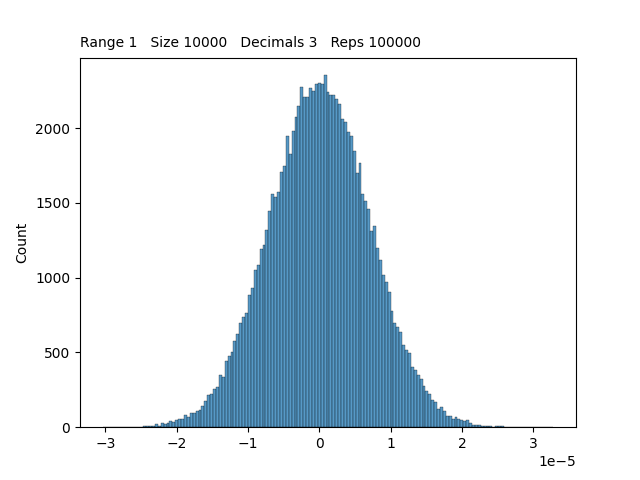
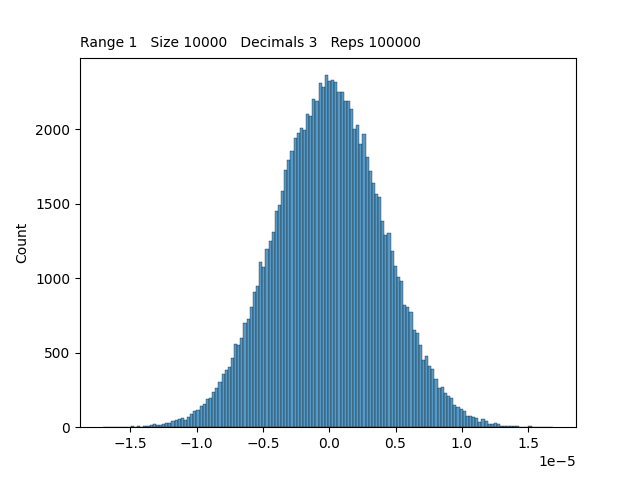
Added functions to work with other distributions. Added a pseudo wrapper to work with the new functions. Now the distribution function is passed as an argument.

diff --git a/CorrRoundingError2.py b/CorrRoundingError2.py
@@ -6,14 +6,38 @@ import pickle
 import pandas
 from time import perf_counter
 import seaborn as sns
+
+"""
+def Rounding(Func):
+    def wrapper(self, *args, **kwargs):
+        Time1 = perf_counter()
+        RealX, RealY = Func(self)
+        Time2 = perf_counter()
+        RoundedX, RoundedY = np.round(RealX, self.Decimals), np.round(RealY, self.Decimals)
+        Time3 = perf_counter()
+        RealCorr = np.corrcoef(RealX, RealY)[0][1]
+        Time4 = perf_counter()
+        RoundedCorr = np.corrcoef(RoundedX, RoundedY)[0][1]
+        Time5 = perf_counter()
+        self.UpdateCorrs((RealCorr, RoundedCorr))
+        Time6 = perf_counter()
+        if self.Debug:
+            print(f'Time steps:\t{Time2 - Time1}\t{Time3 - Time2}\t{Time4 - Time3}\t{Time5 - Time4}\t{Time6 - Time5}')
+            # self.UpdateData((RealX, RoundedX, RealY, RoundedY))
+
+    return wrapper
+"""
+
 class Experiment():
 
-    def __init__(self, Range, Size, Decimals, Seed=39916801, Debug=False):
+    def __init__(self, Range, Size, Decimals, Mean=0, Correlation=0, Seed=39916801, Debug=False):
         self.Corrs = [[],[],[]]
         self.CorrCols = ("RealNumpy", "RoundedNumpy", "ErrorNumpy")
         self.Range = Range
         self.Size = Size
         self.Decimals = Decimals
+        self.Mean = Mean
+        self.Correlation = Correlation
         self.RNG = np.random.default_rng(seed=Seed)
         self.Debug = Debug
         if self.Debug:
@@ -28,11 +52,70 @@ class Experiment():
         for i in range(len(Data)):
                 self.Data[i].append(Data[i])
 
-    def _RunRound(self, Range, Size, Decimals, Generator):
+    """
+    def Rounding(self, func):
+        def wrapper(*args, **kwargs):
+            Time1 = perf_counter()
+            RealX, RealY = func(*args, **kwargs)
+            Time2 = perf_counter()
+            RoundedX, RoundedY = np.round(RealX, self.Decimals), np.round(RealY, self.Decimals)
+            Time3 = perf_counter()
+            RealCorr = np.corrcoef(RealX, RealY)[0][1]
+            Time4 = perf_counter()
+            RoundedCorr = np.corrcoef(RoundedX, RoundedY)[0][1]
+            Time5 = perf_counter()
+            self.UpdateCorrs((RealCorr, RoundedCorr))
+            Time6 = perf_counter()
+            if self.Debug:
+                print(f'Time steps:\t{Time2 - Time1}\t{Time3 - Time2}\t{Time4 - Time3}\t{Time5 - Time4}\t{Time6 - Time5}')
+                #self.UpdateData((RealX, RoundedX, RealY, RoundedY))
+        return wrapper
+    """
+
+
+    def Uniform(self):
+        Generator = self.RNG
+        RealX = Generator.uniform(-self.Range, self.Range, self.Size)
+        RealY = Generator.uniform(-self.Range, self.Range, self.Size)
+        return RealX, RealY
+
+    def Normal(self):
+        Generator = self.RNG
+        RealX = Generator.normal(self.Mean, self.Range, self.Size)
+        RealY = Generator.normal(self.Mean, self.Range, self.Size)
+        return RealX, RealY
+
+    def Bivariate(self):
+        Generator = self.RNG
+        Temp = Generator.multivariate_normal(self.Mean, ((1,self.Correlation),(self.Correlation,1)), size=self.Size)
+        Temp2 = Temp.transpose()
+        return Temp2[0], Temp2[1]
+
+    def _RunRound(self, Func):
+        Time1 = perf_counter()
+        RealX, RealY = Func(self)
+        Time2 = perf_counter()
+        RoundedX, RoundedY = np.round(RealX, self.Decimals), np.round(RealY, self.Decimals)
+        Time3 = perf_counter()
+        RealCorr = np.corrcoef(RealX, RealY)[0][1]
+        Time4 = perf_counter()
+        RoundedCorr = np.corrcoef(RoundedX, RoundedY)[0][1]
+        Time5 = perf_counter()
+        self.UpdateCorrs((RealCorr, RoundedCorr))
+        Time6 = perf_counter()
+        if self.Debug:
+            print(f'Time steps:\t{Time2 - Time1}\t{Time3 - Time2}\t{Time4 - Time3}\t{Time5 - Time4}\t{Time6 - Time5}')
+            # self.UpdateData((RealX, RoundedX, RealY, RoundedY))
+
+    def _OldRunRound(self, Range, Size, Decimals, Generator):
         RNG = Generator
         #Time1 = perf_counter()
-        RealX = RNG.uniform(-Range, Range, Size)
-        RealY = RNG.uniform(-Range, Range,Size)
+        #RealX = RNG.uniform(-Range, Range, Size)
+        #RealY = RNG.uniform(-Range, Range,Size)
+        #RealX = RNG.normal(0, Range, Size)
+        #RealY = RNG.normal(0, Range, Size)
+        RealX = RNG.normal(0, Range, Size)
+        RealY = RealX + RNG.normal(0, 0.1, Size)
         #Time2 = perf_counter()
         RoundedX = np.round(RealX, Decimals)
         RoundedY = np.round(RealY, Decimals)
@@ -46,6 +129,28 @@ class Experiment():
         if self.Debug:
             self.UpdateData((RealX,RoundedX,RealY,RoundedY))
 
+    def _RunRound2(self, Covariance, Size, Decimals, Generator, Mean=(0,0)):
+        RNG = Generator
+        Time1 = perf_counter()
+        Temp = RNG.multivariate_normal(Mean, Covariance, size=Size)
+        Time2 = perf_counter()
+        Temp2 = Temp.transpose()
+        Time3 = perf_counter()
+        RealX, RealY = Temp2[0], Temp2[1]
+        Time4 = perf_counter()
+        RoundedX, RoundedY = np.round(RealX, Decimals), np.round(RealY, Decimals)
+        Time5 = perf_counter()
+        RealCorr = np.corrcoef(RealX, RealY)[0][1]
+        Time6 = perf_counter()
+        RoundedCorr = np.corrcoef(RoundedX, RoundedY)[0][1]
+        Time7 = perf_counter()
+        self.UpdateCorrs((RealCorr, RoundedCorr))
+        Time8 = perf_counter()
+        #print(f'{Time2-Time1} {Time3-Time2} {Time4-Time3} {Time5-Time4} {Time6-Time5} {Time7-Time6} {Time8-Time7}')
+        #print(f'Corr {RealCorr}, Rounded Corr {RoundedCorr}')
+        if self.Debug:
+            self.UpdateData((RealX,RoundedX,RealY,RoundedY))
+
     def CalculateErrors(self):
         self.Corrs[2] = np.subtract(self.Corrs[0],self.Corrs[1])
 
@@ -55,22 +160,39 @@ class Experiment():
         #plt.title(f"Numpy Errors")
         plt.show()
 
-    def MultiRound(self, Repititions):
+    def MultiRound(self, Func, Repititions):
         for i in range(Repititions):
-            self._RunRound(self.Range, self.Size, self.Decimals, self.RNG)
+            #self.Func()
+            self._RunRound(Func)
+        self.CalculateErrors()
+
+    def OldMultiRound(self, Repititions):
+        for i in range(Repititions):
+            self._OldRunRound(self.Range, self.Size, self.Decimals, self.RNG)
         self.CalculateErrors()
         #self.PlotResults()
         #print("Multiround done")
 
+    def MultiRound2(self, Repititions, Correlation):
+        Correlation = 1 - (1-Correlation)*(abs(Correlation)<=1)
+        print(f'Correlation is {Correlation}')
+        for i in range(Repititions):
+            self._RunRound2(((1,Correlation),(Correlation,1)),self.Size, self.Decimals, self.RNG)
+        self.CalculateErrors()
+
 CoresNo = mp.cpu_count()
 ObjectList = [None]*CoresNo
 
-def ParallelRun(RetDict, Index:int, Reps, Range, Size, Decimals, Seed=39916801):
-    Obj = Experiment(Range, Size, Decimals, Seed*(Index+1))
-    Obj.MultiRound(Reps)
+def ParallelRun(RetDict, Index:int, Reps, Func, Range, Size, Decimals, Mean=0, Corr=0, Seed=39916801):
+    Obj = Experiment(Range, Size, Decimals, Mean, Corr, Seed*(Index+1))
+    #if FixCorr:
+    #    Obj.MultiRound2(Reps, Corr)
+    #else:
+    #    Obj.MultiRound(Reps)
+    Obj.MultiRound(Func, Reps)
     global ObjectList
-    #print(f'{Obj} from {Index}')
-    RetDict[Index] = Obj.Corrs[2]
+    #print(f'{Obj.Corrs} from {Index}')
+    RetDict[Index] = Obj.Corrs
     #ObjectList[Index] = Obj
 
 """

diff --git a/CorrRoundingErrorTest.py b/CorrRoundingErrorTest.py
@@ -1,6 +1,6 @@
 from CorrRoundingError2 import *
 
-def main(Reps, Range, Size, Decimals, FileName):
+def main(Reps, Range, Size, Decimals, FileName, Func, Mean=0, Correlation=0):
     RepsPerCore = Reps//CoresNo
     print(f'Number of cores {CoresNo}')
     print(f'Repititions per core {RepsPerCore}')
@@ -8,10 +8,13 @@ def main(Reps, Range, Size, Decimals, FileName):
     Manager = mp.Manager()
     ReturnDict = Manager.dict()
     Time1 = perf_counter()
+    #FixCorr = not type(Correlation)==type(None)
+    #print(f'FixCorr is {FixCorr}')
     for i in range(CoresNo):
-        P = mp.Process(target=ParallelRun, args=(ReturnDict, i, RepsPerCore, Range, Size, Decimals,))         # Map function to process
-        Processes.append(P)                                                                       # Append process to list
-        Processes[-1].start()                                                                           # Start the newly appended process
+        P = mp.Process(target=ParallelRun, args=(ReturnDict, i, RepsPerCore, Func,
+                                                 Range, Size, Decimals, Mean, Correlation,))    # Map function to process
+        Processes.append(P)                                                                     # Append process to list
+        Processes[-1].start()                                                                   # Start the newly appended process
         #print(f'Started process {i}')
     Time2 = perf_counter()
     for i in range(len(Processes)):
@@ -22,7 +25,7 @@ def main(Reps, Range, Size, Decimals, FileName):
     print(f'Time taken for all processes to finish = {Time3-Time2}')
     #print(ReturnDict.values())
     #print(len(ReturnDict))
-    Errors = [i for i in ReturnDict.values()]
+    Errors = [i[2] for i in ReturnDict.values()]
     AllErrors = np.concatenate((Errors))
     ax = sns.histplot(AllErrors, bins="auto")
     ax.text(0, 1.03, f"Range {Range}   Size {Size}   Decimals {Decimals}   Reps {Reps}", transform=ax.transAxes)
@@ -32,10 +35,11 @@ def main(Reps, Range, Size, Decimals, FileName):
         plt.savefig(f'Figures/CorrRoundError/Temp.png')
     #plt.title(f"Numpy Errors")
     plt.show()
+    return ReturnDict
 
 if __name__ == "__main__":
     Start = perf_counter()
     # Args(Reps, Range, Size, Decimals)
-    main(100000, 1, 10000, 3, "Decimals3")
+    Res = main(1000, 1, 10000, 3, "Test21", Experiment.Bivariate, Mean=(0,0), Correlation=0.5)
     Finish = perf_counter()
     print(f'Time taken by entire process {Finish-Start}')
